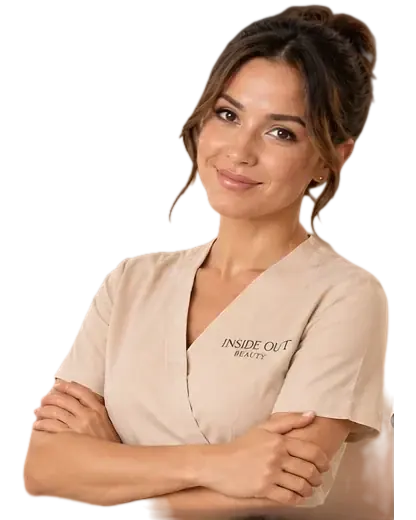
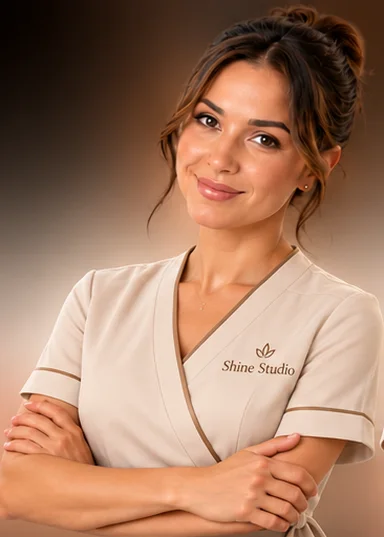
Новые фото мастеров (Shine Studio)
Claude-Session: https://claude.ai/code/session_01NoC3n4SStdx9X2BzoxLphD

diff --git a/site/themes.css b/site/themes.css
@@ -966,3 +966,6 @@ html.t1 .sl-chip button{all:unset;cursor:pointer;width:22px;height:22px;display:
 html.t1 .sl-chip button:hover{background:rgba(232,197,144,.5)}
 html.t1 #reviews{position:relative;z-index:1;overflow:clip}
 html.t1 #how{position:relative;z-index:0}
+html.t1 .mx-acc .ac-i.on img{object-fit:cover;object-position:50% 8%}
+html.t1 .promo-t i{margin-right:.45em}
+html.t1 .mx-acc .ac-i{background:#2b2015}
